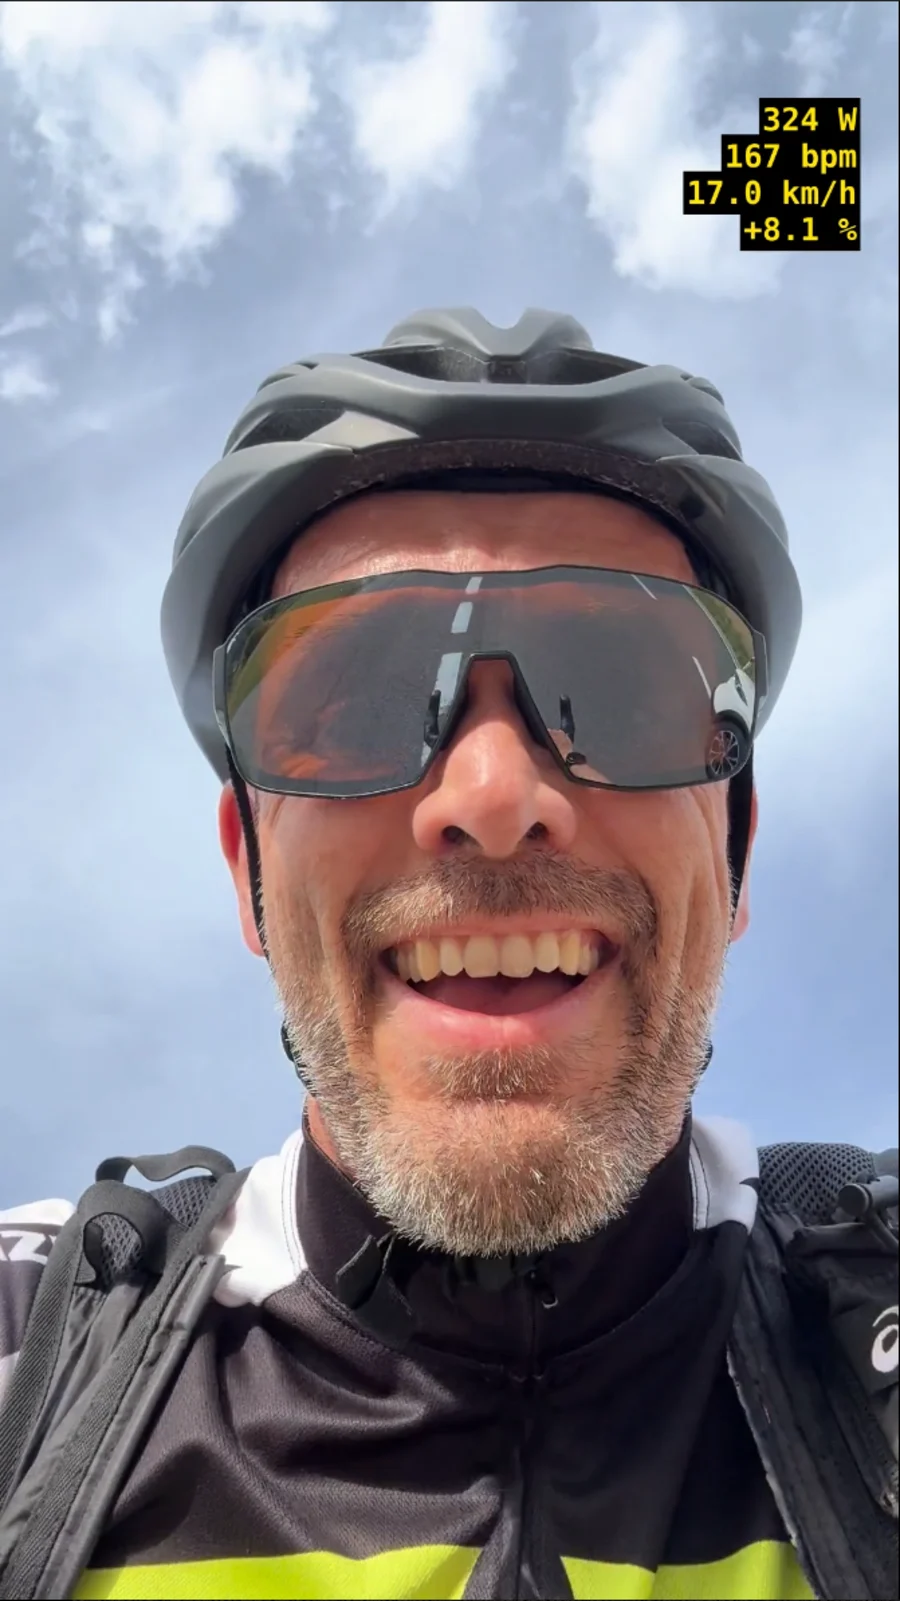
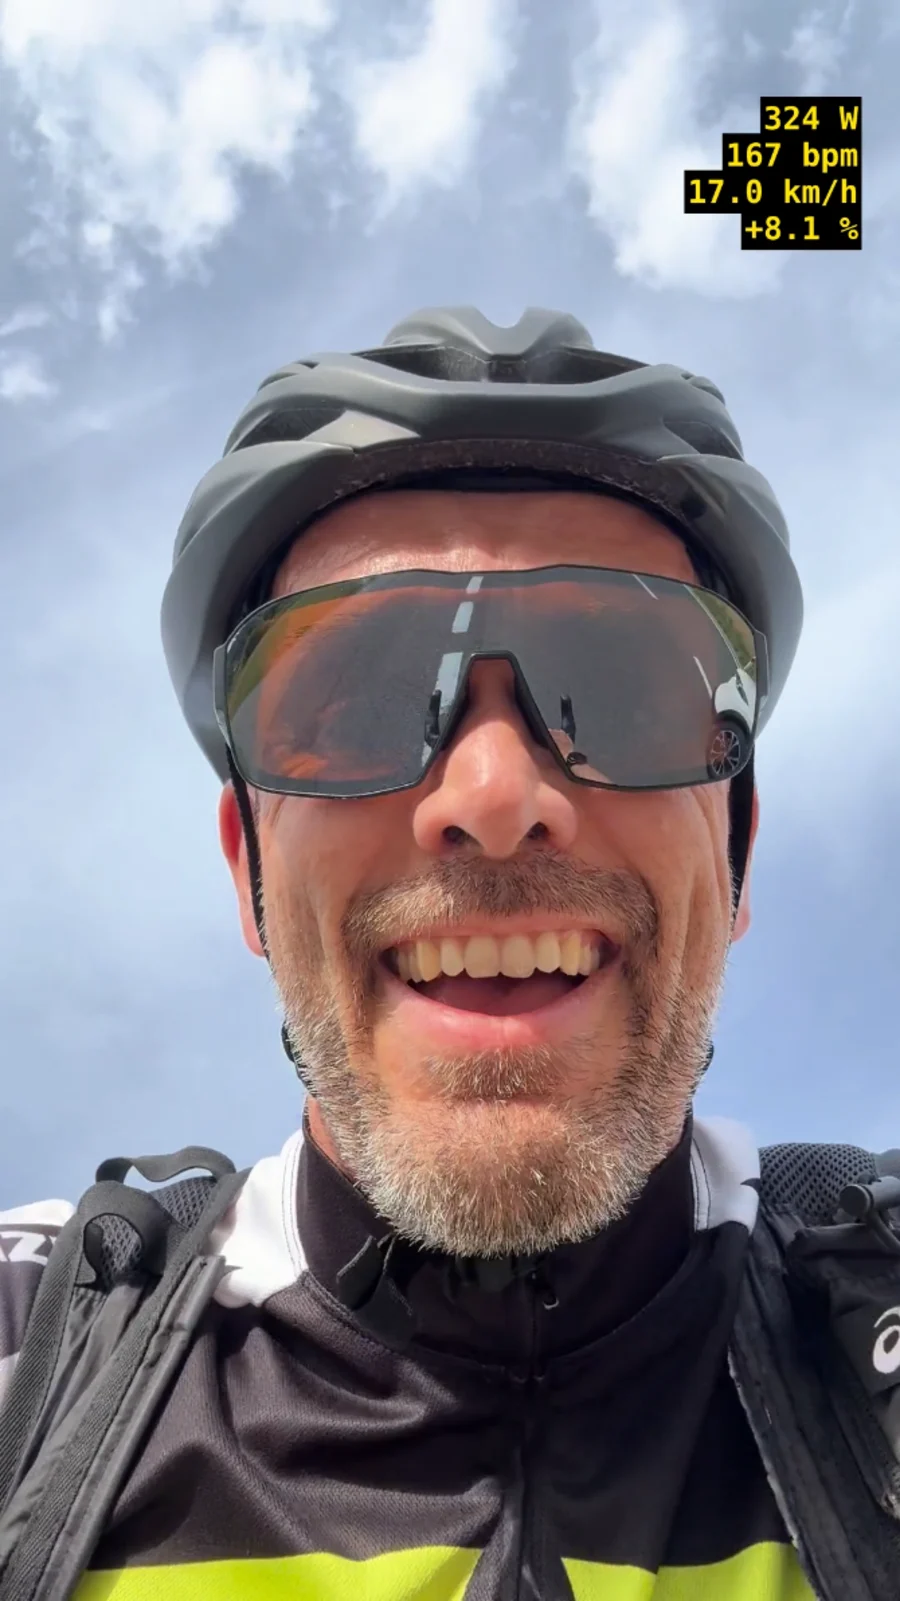
Coverbild: Screenshot-Raender abgeschnitten
Tom sah oben, rechts und unten eine duenklere Linie. Nachgemessen: je genau
1 Pixel, links nichts.

  Zeile 0     143.5 gegen 232.8 beim Nachbarn
  Zeile 1193  138.8 gegen 203.6
  Spalte 670  127.5 gegen 209.2

Crop auf 670x1192+0+1, dann wie gehabt auf 900 px und WebP. Danach liegen alle
Randlinien innerhalb von 1.2 Helligkeitsstufen ihrer Nachbarn.

Ausserdem: "Dreimal die Woche" auch im README auf "pro Woche".

diff --git a/README.md b/README.md
@@ -3,7 +3,7 @@
 Quellcode der Website [velo.tom.li](https://velo.tom.li/) und der Skripte, mit
 denen aus Velo-Videos fertige Instagram-Reels entstehen.
 
-Dreimal die Woche 30 km pro Weg ins Büro, das ganze Jahr — dokumentiert mit
+Dreimal pro Woche 30 km pro Weg ins Büro, das ganze Jahr — dokumentiert mit
 Powermeter, Waage und Physik statt Bauchgefühl.
 
 ## Was hier drin ist
